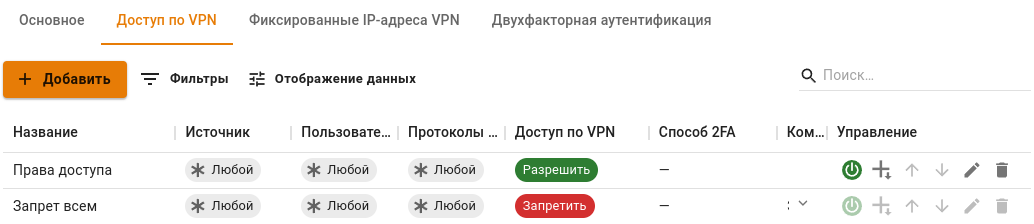
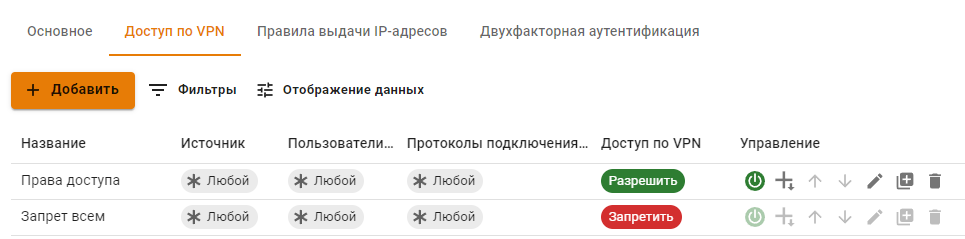
ICS-39409 УТМ. Поменять в доке Фиксированные IP-адреса VPN на Правила выдачи IP-адресов

diff --git a/settings/users/authorization/vpn-connection/pppoe.md b/settings/users/authorization/vpn-connection/pppoe.md
@@ -16,7 +16,7 @@
 
 IP-адрес пользователю назначается автоматически из пула адресов для VPN, настраиваемого в разделе **Пользователи -> VPN-подключения** (например 10.128.0.0/16).
 
-Чтобы настроить **статическую** привязку адресов, выдаваемых по VPN определенным пользователям, нужно перейти в раздел **Пользователи -> VPN-подключения -> Фиксированные IP-адреса VPN**, нажать **Добавить** ![ok\_with\_icon.png](/.gitbook/assets/icon-ok-with.png) и указать нужного пользователя и IP-адрес. Пример настройки фиксированного IP-адреса VPN представлен ниже:
+Чтобы настроить **статическую** привязку адресов, выдаваемых по VPN определенным пользователям, нужно перейти в раздел **Пользователи -> VPN-подключения -> Правила выдачи IP-адресов**, нажать **Добавить** ![ok\_with\_icon.png](/.gitbook/assets/icon-ok-with.png) и указать нужного пользователя и IP-адрес. Пример настройки фиксированного IP-адреса VPN представлен ниже:
 
 ![](/.gitbook/assets/vpn-authorization9.png)
 

diff --git a/settings/users/authorization/authorization-by-subnet.md b/settings/users/authorization/authorization-by-subnet.md
@@ -44,5 +44,5 @@ description: >-
 
 * Для разных пользователей создать пересекающиеся сети;
 * Есть правила авторизации пользователей по IP-адресам из подсети в правиле _Авторизации по подсетям_;
-* Созданы правила в подразделе **Фиксированные IP-адреса VPN** с привязкой к IP-адресу из подсети правила _Авторизации по подсетям_.
+* Созданы правила в подразделе **Правила выдачи IP-адресов** с привязкой к IP-адресу из подсети правила _Авторизации по подсетям_.
 {% endhint %}
